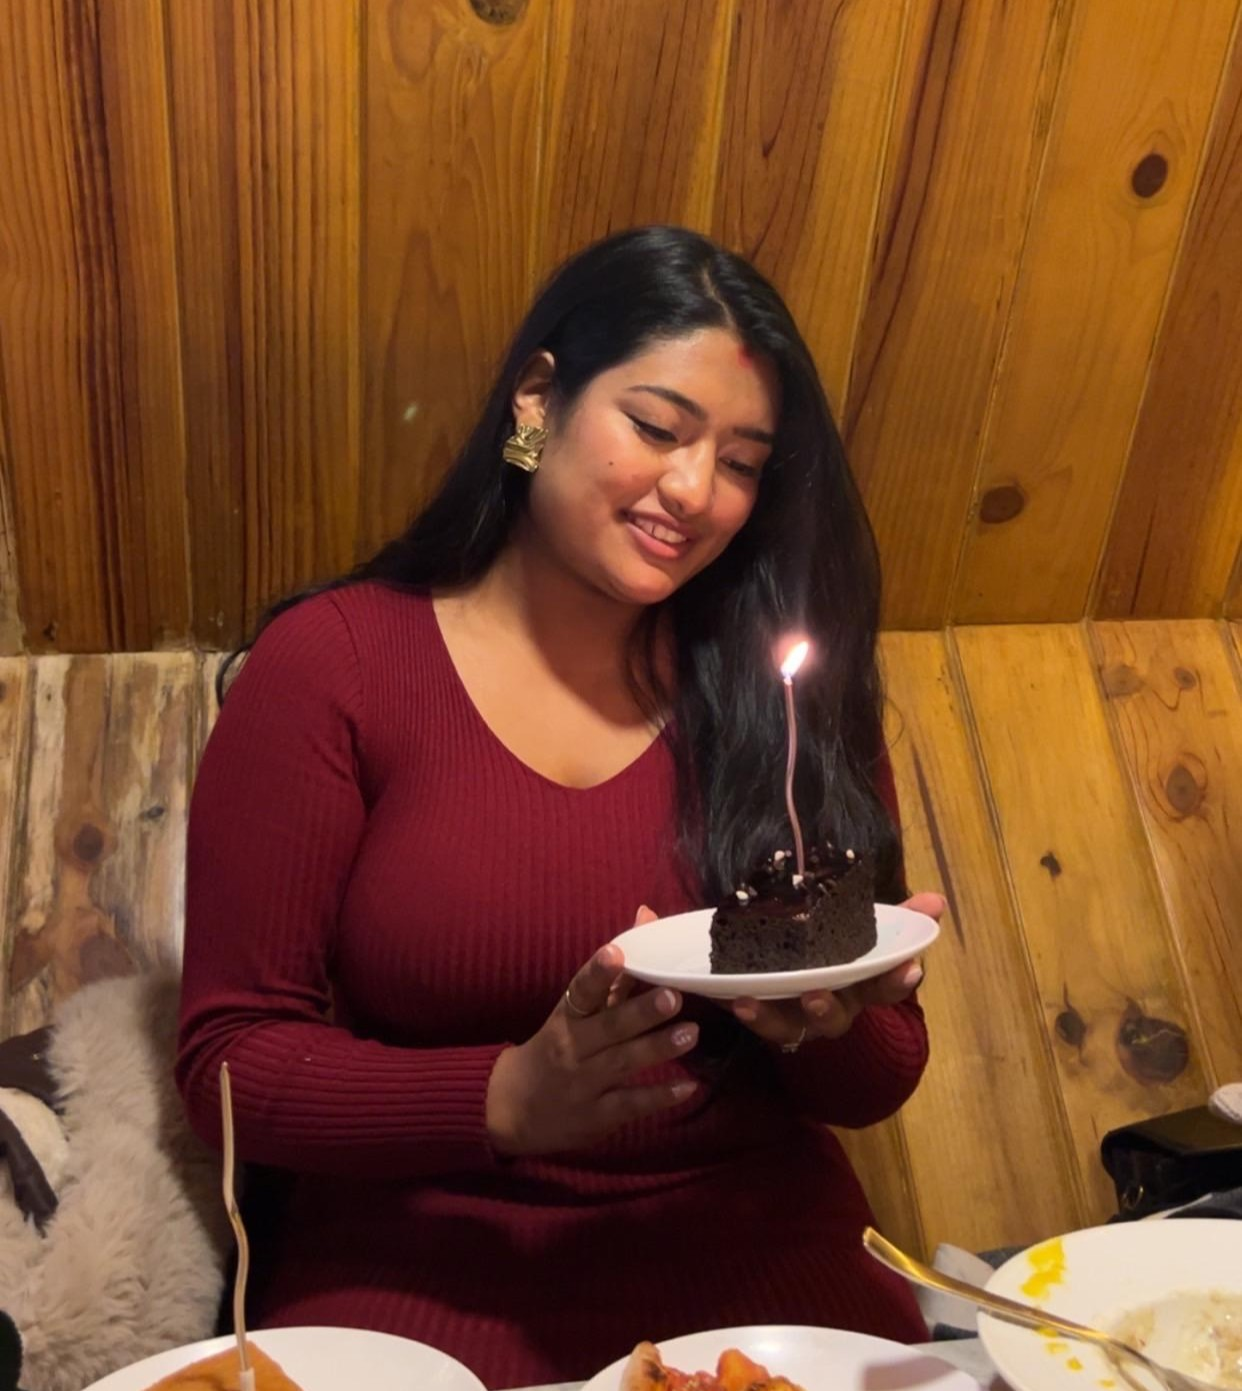
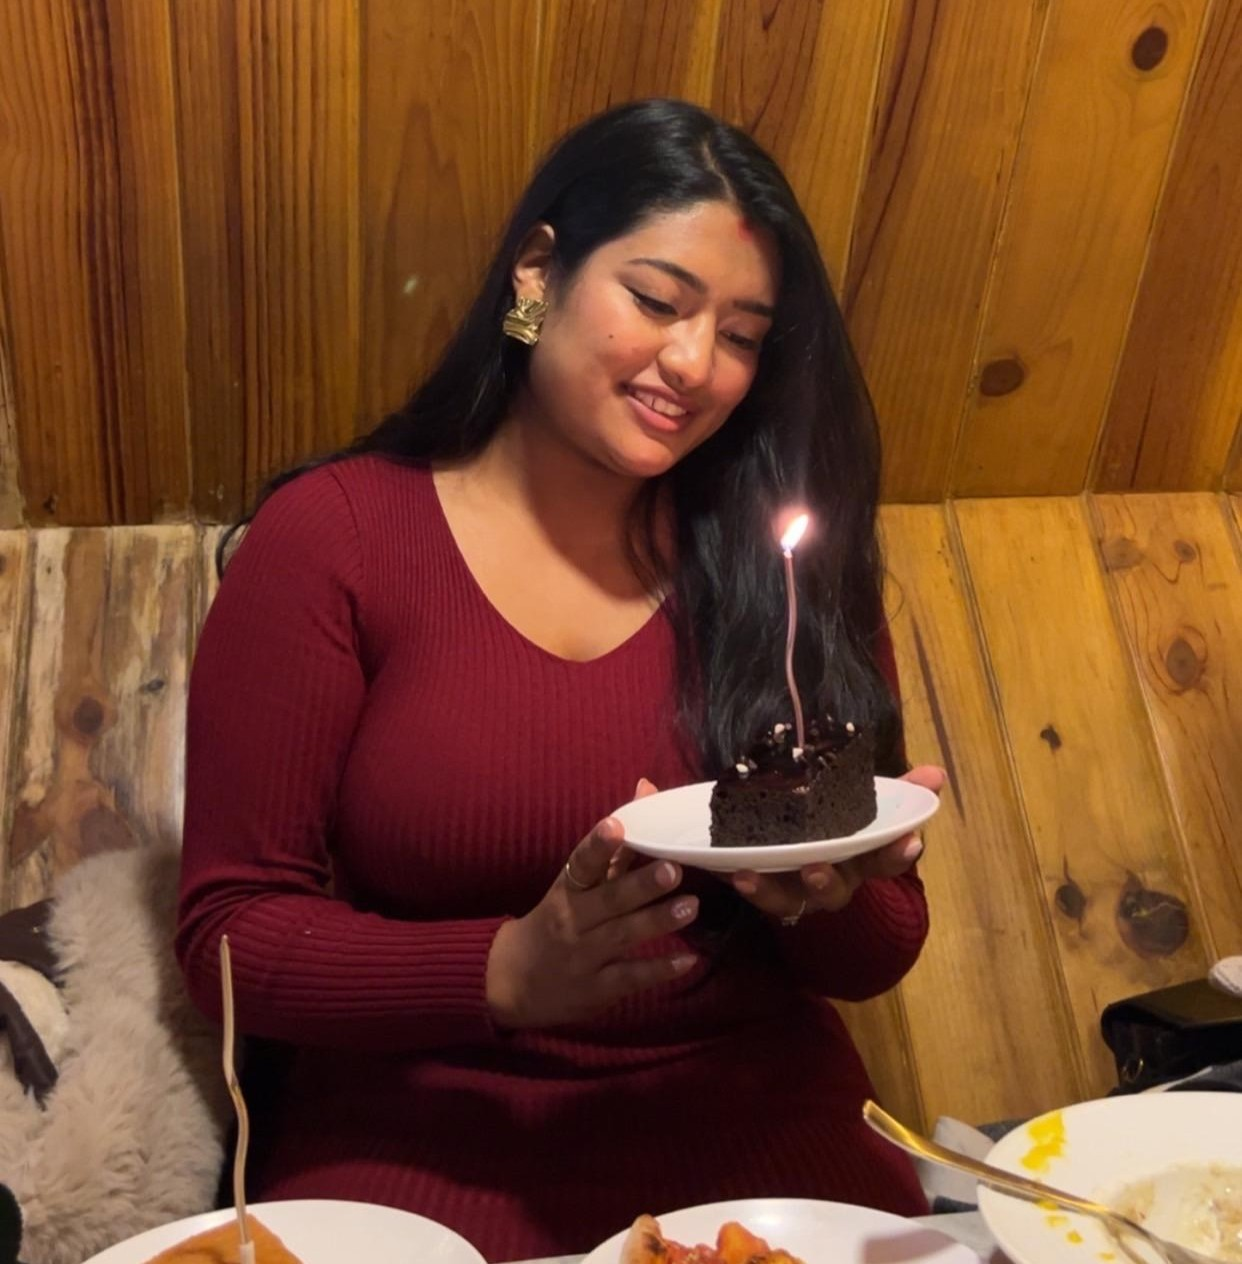
post

diff --git a/project/studiolipe/index.html b/project/studiolipe/index.html
@@ -112,7 +112,7 @@
                 </div>
                 <div class="col-lg-6">
                     <div class="owl-carousel header-carousel animated fadeIn">
-                        <img class="img-fluid" src="img/work/lipepp.jpeg" alt="">
+                        <img class="img-fluid" src="img/work/3.jpg" alt="">
                         <img class="img-fluid" src="img/work/1sabina.jpg" alt="">
                         <img class="img-fluid" src="img/work/2.jpg" alt="">
                     </div>
